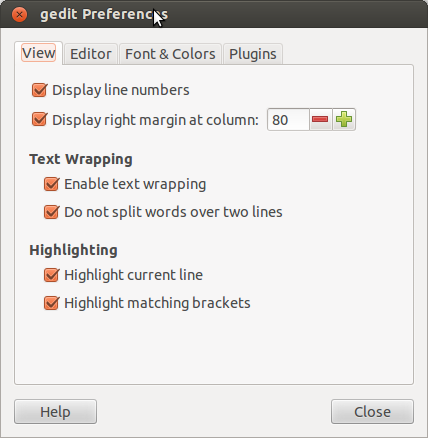
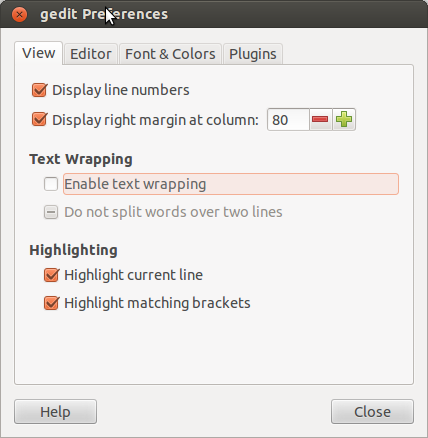
16,523 words - first draft of first section complete (phew!)

diff --git a/src/add.js b/src/add.js
@@ -1,5 +1,6 @@
 var add = function( firstNumber, secondNumber ) {
   return firstNumber + secondNumber;
+  
+  
+  
 };
-
-parseInt("")

diff --git a/book-outline.md b/book-outline.md
@@ -403,6 +403,8 @@ Launch Craftbukkit by double clicking the launch script you created earlier. Whe
 
 ... There will be many more entries as there are many files bundled with ScriptCraft. 
 
+The 'plugins' sub-folder in CraftBukkit is important. It's where all Minecraft Server plugins should be stored. This is true not just for ScriptCraft.jar but for all server plugins. If you save a Server plugin jar file to any other location except the plugins folder, then it will not be loaded when the minecraft server starts up. The minecraft server only looks in the plugins sub-folder for plugins to load at startup.
+
 ### Verifying ScriptCraft is installed.
 
 You can verify that ScriptCraft has been successfully installed by issuing the following command at the server console:
@@ -751,13 +753,14 @@ Javascript code in an editor with Syntax Highlighting turned on.
 
 ### Choosing an editor
 
-There are many programming editors to choose from. Which editor you choose is ultimately up to you. I've been using Emacs - an Open Source editor - for many years but I don't recommend it to beginning programmers because although it is very powerful, it takes some time to learn. Programmers get very attached to their programming editors after time. You should start with an editor that's easy to use and learn. In this chapter I'll talk about gedit but you can use any of the following Programming Editors to get started programming.
+There are many programming editors to choose from. Which editor you choose is ultimately up to you. I've been using Emacs - an Open Source editor - for many years but I don't recommend it to beginning programmers because while very powerful, it takes some time to learn. Programmers get very attached to their programming editors after time. You should start with an editor that's easy to use and learn. In this chapter I'll talk about gedit but you can use any of the following Programming Editors to get started programming.
 
 * Notepad++ is a free editor for Windows you can download at http://notepad-plus-plus.org/ 
 * TextWrangler from BareBones Software is a free editor for Mac OS X you can download at http://www.barebones.com/products/textwrangler/ 
 * Sublime Text is a cross-platform ( it runs on Mac OS, Windows and Linux ) editor which you can evaluate for free for as long as you like.
+* Brackets is a cross-platorm Free, Open Source code editor for the web. You can download it at http://brackets.io/ .
 
-Mac OS users can skip this section and go straight to 'Installing TextWrangler on Mac OS'.
+Let's get started installing gedit. You can skip this section if you've already installed and use a programing editor on your computer. Mac OS users can skip the following section and go straight to 'Installing TextWrangler on Mac OS'.
 
 ### gedit
 
@@ -802,14 +805,41 @@ The next step is to set some preferences for how the editor should behave. You d
 #### View preferences
 ![View Preferences](img/screenshot-gedit-prefs-1.png)
 
+It's useful to have gedit display line numbers alongside your code. The line numbers appear in the left margin of the window and are not part of your actual code. 
+gedit will display a feint margin along the right side of the window in column 80. This margin is just a guide to indicate that perhaps your line of code is too long. It's only a guide though and can be safely ignored. It's generally considered good practice to keep lines of code shorter than 80 characters long to help readability, but there will always be exceptions to this rule.
+
+The 'Enable text wrapping' setting should be turned off for programming. It's useful if you're writing a letter, essay or other non-programming text but it can be confusing if turned on while programming. 
+
+'Highlight current line' makes it easier to see where you currently are in the code. If looking at a large javascript file, it can be difficult to see the cursor (the blinking block that appears next to letters as you type).
+
+'Highlight matching brackets' is a super useful programming feature. As you move the cursor around your javascript source, when the cursor is next to any of the following characters it will match the opening or closing character.
+
+* Round brackets : (  )
+* Curly brackets : {  }
+* Square brackets : [  ]
+
+This can really help when writing or editing code. In the screenshot below, you can see the cursor on line 1 next to the `{` character with both the opening and closing curly brackets highlighted in gray. 
+
+![bracket matching](img/screenshot-gedit-matching-brackets.png)
+
 #### Editor preferences
 ![View Preferences](img/screenshot-gedit-prefs-2.png)
+
+I recommend using either 2 or 4 spaces for tabs to make your code more readable. This is largely a matter of style and personal taste. When starting out, you should probably use 4 spaces. 
+
+Automatic Indentation is a handy feature which saves you having to type TAB and SPACE characters when you start a new line of code.
+
+gedit can create a backup of your your files before you save them. This is usually a good idea.
 
 #### Fonts & Colors
 ![View Preferences](img/screenshot-gedit-prefs-3.png)
 
+You can change the font and color scheme to suit your own tastes. Some people prefer dark text on a light background, some prefer light text on a dark background. Pick the color scheme you like. You can always change it later.
+
 #### Plugins
 ![View Preferences](img/screenshot-gedit-prefs-4.png)
+
+gedit comes with a couple of editing plugins. You should make sure that the 'File Browser Panel' plugin is selected.
 
 ### Installing TextWrangler on Mac OS
 Follow these steps to install TextWrangler on Mac OS.
@@ -823,16 +853,45 @@ Whenever you Launch TextWrangler you should open a 'Disk Browser' window by choo
 
 ![TextWrangler Disk Browser](img/textwrangler-disk-browser.png)
 
-##### Automatch
-##### Side Bar
-###### open directory
-###### browse to a file and open it. Close the file.
+### First steps with your editor
 
-#### Notepad++
+To get used to working with a programming editor, we're going to create a new folder and file in the ScriptCraft plugins folder and save the new file. You can skip this section if you've used a programming editor before.
 
-#### TextWrangler
-#### Other options
+#### Create a new Folder
 
+In the File Browser Pane ( the Disk Browser in TextWrangler on Mac OS ) locate and select the folder where you installed CraftBukkit earlier. Then navigate to the plugins/scriptcraft/plugins sub-folder. Once selected, right-click on the folder and choose 'New Folder' from the menu. Call your new folder 'learning' for now. You can call it something else as long as it's memorable - we'll come back to this folder later.
+
+![create a new folder](img/screenshot-edit-new-folder.png)
+
+Your new folder will now appear in the File/Disk Browser Pane. 
+
+#### Create a new javascript file
+
+The next step is to create a new javascript file in the sub-folder we just created. The file won't do much just yet but we'll work some more on it soon. Right-click on the Folder you just created and choose 'New File' from the menu. Call the new file 'helloWorld.js'.
+
+![create a new file](img/screenshot-edit-new-file.png)
+
+The file has just been created but hasn't been opened. Double-click the file to open it. The file contents now appear in the editing pane on the right. The file is - as you'd expect - empty. Type in the following code exactly as you see it.
+
+    // TO DO : Add some code later
+
+The above code isn't actually real code. It's just a note we've added to remind ourselves that we must add some proper code later. This 'note' isn't actually understandable to the computer so we can write whatever we like here, the computer will not try to interpret and execute it. Notes like this can be very useful for programmers because they make understanding code easier. Writing code is like any kind of writing - you should try to make your code readable by yourself and others so if you look at your code later you can figure out what you did. 
+
+These notes are called 'comments' and most programming languages provide a way to add comments. In javascript there are different ways you can add comments. You can add a single-line comment like the one above by inserting 2 forward-slash ( / ) characters and then any text after is a comment and will be ignored by the computer until the next line. We'll talk more about comments later. 
+
+#### Saving your work.
+
+Save the file by choosing 'Save' from the File menu or by pressing CTRL + S ( CMD + S on Mac OS ). The file is now saved. You can verify this by closing the file and opening it once more. To close the file choose 'Close' from the File menu or press the close icon next to the file name at the top of the editor pane.
+
+Reopen the file by double-clicking it in the File/Disk Browser pane. The text you entered previously should still be present. Saving your work is really important because code you edit will not take effect unless you first save it. You'd be surprised how often even experienced programmers forget this simple rule and are left wondering why their code isn't working as expected.
+
+When using scriptcraft, the folder where you save your work is important. You can't just save your files anywhere and hope they'll be executed by scriptcraft. For now we've saved the newly created 'helloWorld.js' file in the plugins/scriptcraft/plugins sub-folder. Just as the Minecraft Server looks for .jar files in its plugins sub-folder to load Java-based plugins, ScriptCraft too looks for .js files in its own scriptcraft/plugins folder to load Javascript-based plugins.
+
+### Summary
+
+We've installed a programming editor and have taken our first steps creating and editing a new javascript file. In the next section of the book we'll dive into creating working javascript plugins for Minecraft. 
+
+This is where the fun begins.
 
 # Part II Basic Modding 
 ## Your first minecraft plugin
@@ -1031,7 +1090,10 @@ Plugins
 The ScriptCraft directory tree.
 
 ## Multi-sided dice
-
+### more on comments
+    /* */ 
+	// 
+	
 ## Greeting Players
 
 ### Goal
@@ -1163,5 +1225,4 @@ This recipe and the followin recipe will go into much greater detail in developi
 
 ## Using ScriptCraft with other Plugins
 
-## Piggie Pandemonium, A pig-herding mini-game
  
